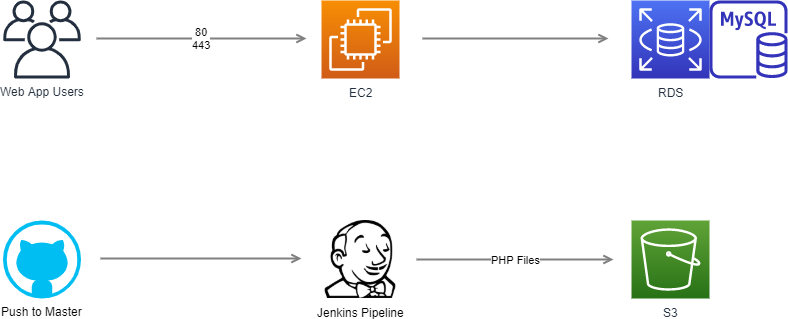
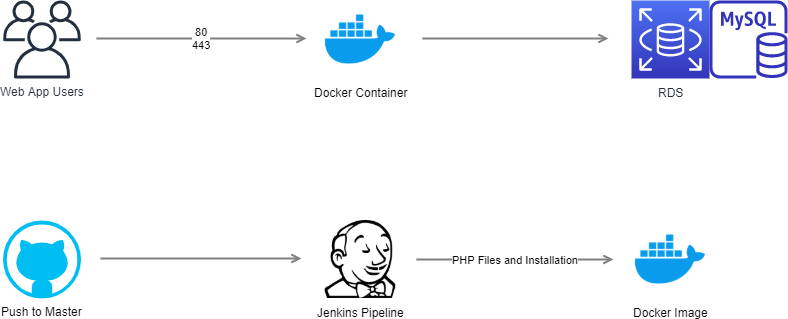
Organizing branch struture

diff --git a/README.md b/README.md
@@ -1,11 +1,13 @@
 # golfathonWebApp
-golfathonWebApp is a web application for a Golfathon Event. This application features enhancements that allow for increased security against XSS attacks, hashed password validation, and session timeout.
+golfathonWebApp is a web application for a Golfathon Event that allows the user to register as a golfer, make donations, and view team statistics. It also allows admin users to sign in with credentials stored in a MySQL database. The admin page allows admins to create and manage corporate sponsorships, and edit sponsors of individual golfers. Application enhancements include security against XSS attacks, hashed password validation, and admin user session timeout.
+
+This application runs on an Apache Web server with PHP. The design utilizes Jenkins technologies and Docker technologies such as Docker Secrets, Docker Swarm, and Docker Compose to allow for automation and increased security.  
 
 ## Sections:  
 [AWS](#aws)  
 [Jenkins](#jenkins)  
-[Chef "master" Branch](#1-chef---master-branch-master-branch)  
-[Docker "docker" Branch](#2-docker---docker-branch-docker-branch)  
+[Docker "master" Branch](#1-docker---master-branch-master-branch)  
+[Chef "s3basic" Branch](#2-chef---s3basic-branch-s3basic-branch)  
 [Enhancements and Best Practices](#enhancements-and-best-practices)  
 [Demonstrations of Website](#demonstrations-of-website)
 
@@ -18,8 +20,7 @@ AWS Setup:
 Templatized resources [here](https://github.com/kezizhou/golfathonWebApp/blob/master/aws/)
 
 ##### S3 Bucket
-![Golfathon S3 Bucket](documentation/demos/s3bucket.png)
-[Back to Top](#golfathonWebApp)
+![Golfathon S3 Bucket](documentation/demos/s3bucket.png)  
 
 ##### IAM
 IAM Role: golfathon-role
@@ -27,33 +28,41 @@ IAM Role: golfathon-role
     * EC2
     * S3
     * KMS
-    * Logs
+    * Logs  
+
+[Back to Top](#golfathonWebApp)
 
 ### Jenkins
-The Jenkinsfiles allow for the automated build and push of images to Docker Hub, as well as pushing files to S3.  
+The Jenkinsfiles allow for the automated build and push of images to Docker Hub, as well as pushing files to S3. The Jenkinsfile is triggered by pushes to the "master" and "s3basic" branches. 
+
+* "master" Branch
+    * Upon a push to the master branch, the Docker images for Apache and PHP are built and pushed to Docker Hub. A Docker Swarm is then created and initialized using Docker Compose.
+!["master" Branch Jenkins Pipeline](documentation/demos/jenkinsMasterPipeline.png)
+
+* "s3basic" Branch
+    * Upon a push to the s3basic branch, all files in the root directory of the GitHub Repo are pushed to an S3 bucket.
+!["s3basic" Branch Jenkins Piepline](documentation/demos/jenkinsS3BasicPipeline.png)
+
 [Back to Top](#golfathonWebApp)
 
 There are 2 methods that could be used to automate this application, which have been separated by Git branches:  
 
-### 1. Chef - "master" Branch
+### 1. Docker - "master" Branch
+This branch contains a Dockerfile that is used to build a Docker image of the application. This Dockerfile installs Apache, PHP, and MySQL, exposes the ports, and starts the services. It copies the PHP scripts and files from the repo to the container. This image can then be pulled from Docker Hub to the server(s). 
+In this method, the Apache Docker container is exposed on ports 80, and the page can be viewed by going to http://localhost:80.
+
+!["master" Branch Diagram](documentation/diagrams/golfathonWebAppMaster.png)  
+
+To see the Docker Hub repository for this application, please go [here]("https://hub.docker.com/repository/docker/kezizhou/golfathon-web-app").  
+
+[Back to Top](#golfathonWebApp)
+
+### 2. Chef - "s3basic" Branch
 This branch contains a sample Chef cookbook that could be used to set up this web app. This becomes advantageous for larger applications, since this allows for better automation of the server install and setup. Even if the server is damaged, Chef can run the cookbook and bring the server back to the desired state.
 In this method, the page can be viewed by going to the public DNS of the EC2 instance the server is running on. 
 The Jenkinsfile in this branch pushes the PHP files from the repo to an S3 bucket.
 
-!["master" Branch Diagram](documentation/diagrams/golfathonWebAppMaster.png)  
-
-[Back to Top](#golfathonWebApp)
-
-### 2. Docker - "docker" Branch
-This branch contains a Dockerfile that is used to build a Docker image of the application. This Dockerfile installs Apache, PHP, and MySQL, exposes the ports, and starts the services. It copies the PHP scripts and files from the repo to the container. This image can then be pulled from Docker Hub to the server(s). 
-In this method, the Apache Docker container is exposed on ports 80, and the page can be viewed by going to http://localhost:80.
-
-!["docker" Branch Diagram](documentation/diagrams/golfathonWebAppDocker.png)  
-
-To see the Docker Hub repository for this application, please go [here]("https://hub.docker.com/repository/docker/kezizhou/golfathon-web-app").  
-
-The Jenkinsfile in this branch builds the Docker image, pushes it to Docker Hub, and runs the image.  
-!["docker" Branch Jenkins Pipeline](documentation/demos/jenkinsDockerPipeline.png)
+!["s3basic" Branch Diagram](documentation/diagrams/golfathonWebAppS3Basic.png)  
 
 [Back to Top](#golfathonWebApp)
 
@@ -61,15 +70,16 @@ The Jenkinsfile in this branch builds the Docker image, pushes it to Docker Hub,
 This project started as a basic web app that allowed for user interaction to submit data to a MySQL database. Since then, some enhancements have been made to follow best practices and to add features:
 * Best Practices:
     * HTML headers have been moved to the default_header.php and admin_header.php files to avoid redundancy in code.
-    * The mySQLConnect() function was created.
+    * The mySQLConnect() function was created for reuse.
     * A custom InvalidCredentialException class was created to allow for catching invalid login exceptions as a specific exception.
-    * In order to reduce unnecessary Docker image space, the Dockerfiles were changed to use an alpine image instead of an amazonlinux image. 
+    * In order to reduce unnecessary Docker image space, the Dockerfiles were changed to use an Alpine image as opposed to other large Linux distro images such as CentOS and AmazonLinux. This also improves security by reducing the number of packages that could be attacked.
 * Security:
     * Use of the password_verify() PHP function was added to allow for verification of hashed user passwords in the database.
     * The charConvert() function was created to guard against XSS attacks, and converts special characters to HTML entities anytime user input is output to the page.
+    * Jenkins credentials and Docker secrets were used to avoid storing database credentials in a Docker image or on an open seerver.
 * Enhancements:
     * A 60 minute session timeout was added to the admin page, which automatically redirects the user back to login.php along with a timeout message upon expiration. 
-    * Adjustments were made to the navigation bar and tables to accomodate mobile devices  
+    * Adjustments were made to the navigation bar and tables to add responsive design for mobile devices  
 
 [Back to Top](#golfathonWebApp)
 
